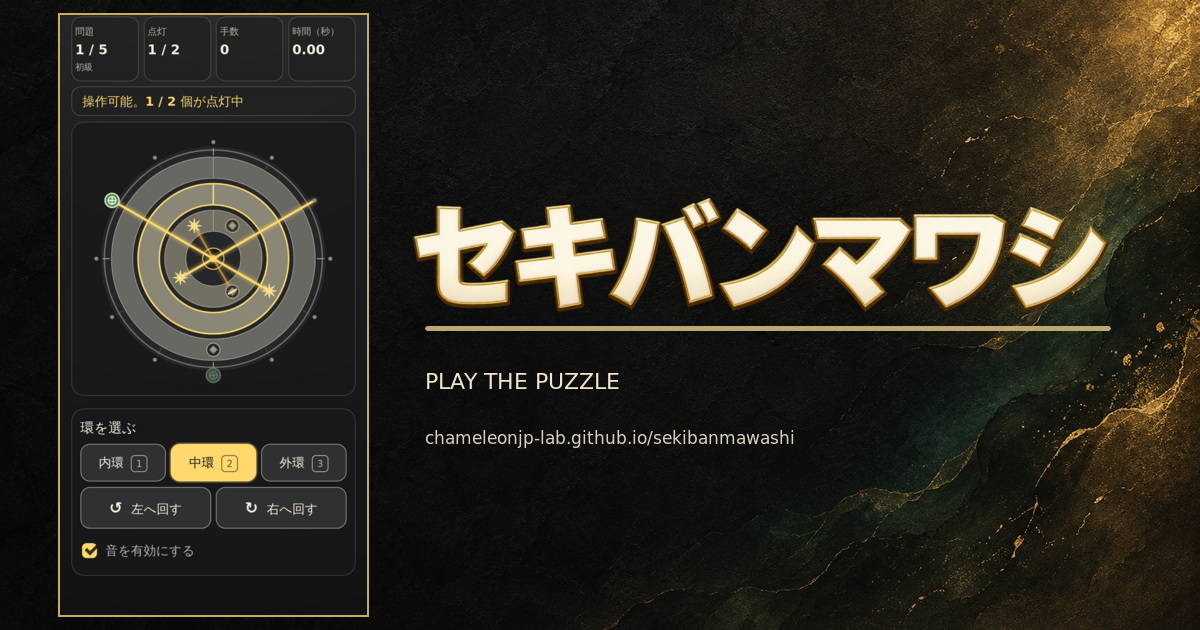
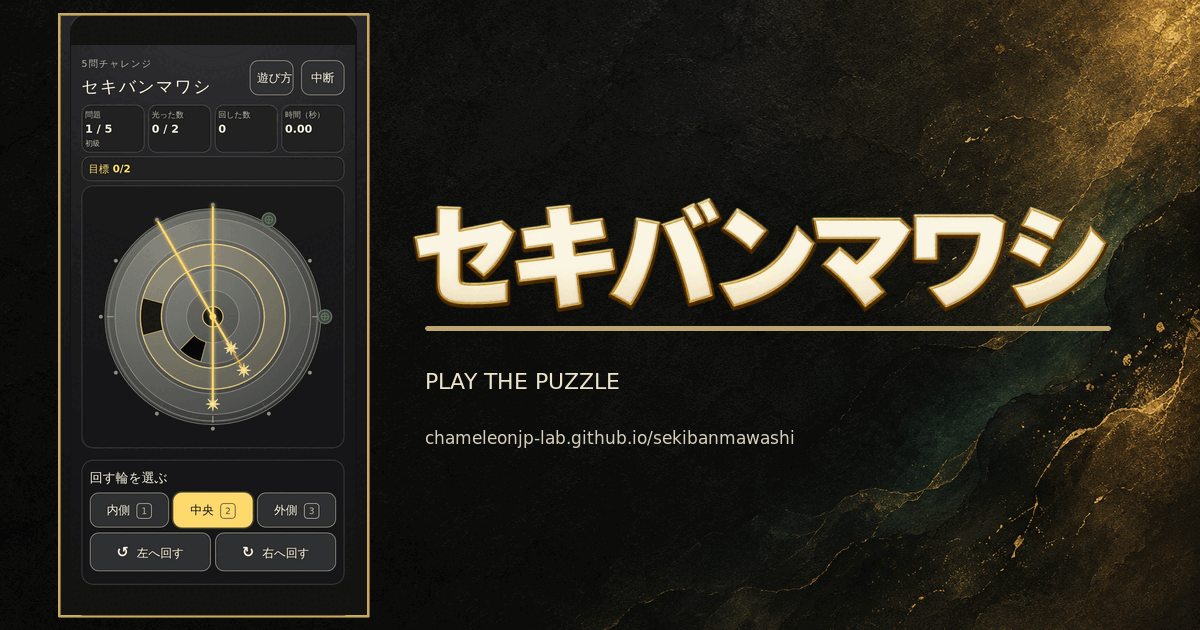
Refresh post-merge publication card and status

Changed region(s): [[0.0617, 0.0, 0.3083, 0.9349], [0.0925, 0.9651, 0.2775, 0.9952]]

diff --git a/CURRENT_STATE.md b/CURRENT_STATE.md
@@ -1,28 +1,27 @@
 # 現在の状態
 
-更新日: 2026-09-28 JST / 対象: `chameleonjp-lab/sekibanmawashi`
+更新日: 2026-09-29 JST / 対象: `chameleonjp-lab/sekibanmawashi`
 
 ## 結論
 
-最新の実装基準は[対応実装計画書 文書版2.1](docs/planning/IMPLEMENTATION_PLAN.md)です。**発光紋が常時発光し、回転だけで解く規則です。R1はPR #6、R2はPR #7、R3（1問の盤面と入力）は[PR #8](https://github.com/chameleonjp-lab/sekibanmawashi/pull/8)、R4（5問進行・時計・保存・結果・共有）は[PR #9](https://github.com/chameleonjp-lab/sekibanmawashi/pull/9)でマージ済みです。R5は[PR #10](https://github.com/chameleonjp-lab/sekibanmawashi/pull/10)として2026-09-27 01:49:54 JSTにユーザーによりmainへマージ済みです。検証ソース `1cf19149de75b1f970185ec903b6eed7c5896fad` の[CI 36252821838](https://github.com/chameleonjp-lab/sekibanmawashi/actions/runs/36252821838)は成功し、browser 90件（89 expected + 1 flaky。初回失敗後に再試行成功）、最終失敗0・skip0でした。flakyの原因は未確定です。R6開始基準はPR #11 merge commit `dab3b9133d3b6ef5f4c88c433719192d64e413cd` / tree `6ff4ca684103cd0eb5265b62e89fb071f6b94784` です。[PR #12](https://github.com/chameleonjp-lab/sekibanmawashi/pull/12) は2026-09-27にmainへマージされ、merge commit `989784641d7cc04b6ae63c878b53e6acd1c39777` のpush [CI 36335601110](https://github.com/chameleonjp-lab/sekibanmawashi/actions/runs/36335601110) が成功しました。ユーザーは本番公開を許可し、正式名を「セキバンマワシ」と指定しました。[PR #13](https://github.com/chameleonjp-lab/sekibanmawashi/pull/13) はmainへマージ済みで、merge commitは `662d0fe79cce888094eb265a71c3f56cc60ff331` です。PR head `bc06184ead790ee80ffea31742589396d29f4693` のCI 36347915124は成功済みです。公開workflowはmain merge SHAそのもののpush `CI / verify` 成功を要求するため、dispatch前に `662d0fe79cce888094eb265a71c3f56cc60ff331` のpush CIを別途確認します。Q05実機受入は未実施のため、workflow dispatch・実deployは未実施です。**
+最新の実装基準は[対応実装計画書 文書版2.1](docs/planning/IMPLEMENTATION_PLAN.md)です。発光紋は常に光り、輪を回して解く規則です。R1〜R5とR6公開workflow・正式名の設定は完了しています。
 
-## 画面仕上げ作業（Draft PR #17）
+ユーザー依頼の画面仕上げは[PR #17](https://github.com/chameleonjp-lab/sekibanmawashi/pull/17)で実装され、2026-09-29にmainへマージ済みです。merge commitは f069923c249c20b1c553296c8af0f96d3035f8f6。PR headの[CI 36484289084](https://github.com/chameleonjp-lab/sekibanmawashi/actions/runs/36484289084)は成功しました。main push [CI 36507252037](https://github.com/chameleonjp-lab/sekibanmawashi/actions/runs/36507252037)の最終状態は公開前に再確認します。変更は石板の質感・大きさ、黒い遮光区画、画面揺れ防止、ゲーム画面の音設定削除、分かりやすい表示、成功時の紙吹雪と完成盤面1.5秒表示です。ゲーム規則・問題データは変更していません。
 
-現在の依頼に合わせ、盤面の石らしい模様と大きさ、黒い遮光場所、操作中の上下揺れ防止、ゲーム画面の音設定削除、短い日本語表示、成功時の紙吹雪と完成盤面1.5秒表示を作業中です。作業ブランチ `fix/gameplay-board-clarity` の[Draft PR #17](https://github.com/chameleonjp-lab/sekibanmawashi/pull/17)は、最新main `b717de9a46e06b18b33c6b1af0ab796adb4bb867` を基準にしています。ユニット74件、型検査、lint、buildは成功。Playwrightブラウザは実行環境の権限不足と0 MiBダウンロードで取得できず、PR CI確認は未完了です。iPhone実機も未確認です。
+R6の本番公開はまだ完了していません。最後に成功したPages公開run [36450381814](https://github.com/chameleonjp-lab/sekibanmawashi/actions/runs/36450381814)は旧main b717de9a46e06b18b33c6b1af0ab796adb4bb867 の内容です。最新画面に合わない共有画像を先に更新するため、Draft PR #18で public/share-card.png と公開記録を整えます。PR #18をユーザーがマージした後、merge後mainそのもののpush CI成功を確認してからPagesを公開し、HTTP検査と計画8.2の実URLフローを確認します。こちらではマージしません。
 
-R5開始時の基準mainは `0709e7ff2faaaf8b5e28e4038e60ca1872e118a5`（GitHub PR #9マージ後）です。今回の記録更新PRの基準mainはPR #10マージ後の `69ba9e1f34afa9bd5cbdf6950e77e6750132f648`（tree `451b800a2ab1b536680cc49fb667faa0ca87a1c6`）です。正式版はルート直下の `src/` と `content/` に分け、`prototype/` は旧規則の比較資料として残します。
+Q05（iPhone 17 Proの物理Safari、VoiceOver、ロック復帰、実機音）は未実施です。ユーザーの個別waiverが[PR #14の記録](https://github.com/chameleonjp-lab/sekibanmawashi/pull/14#issuecomment-5861153503)にあり、今回のR6本番公開に限って適用します。実機確認済みとは扱いません。
 
 | 項目 | 決定・状態 |
 |---|---|
-| 盤面 | 12方向、可動環3本、外周に受光紋 |
-| 新操作 | 環選択、左回転、右回転。R3で1問の盤面・入力と説明/中断確認を実装。実機は未確認 |
-| 成功 | 必須受光紋が全て点灯。余分な光は許可 |
-| 問題庫 | v2で初級30・中級30・上級30を生成。旧90問を再解析し18問再利用・72問差し替え |
-| 1回の挑戦 | 初級2・中級2・上級1の順に5問。日替わりなし |
-| 今回の実装先 | 正式版の `src/` / `content/` を基本とする。旧試作は比較資料 |
-| 今回の接続 | 端末内で完結。ランキング・プレイ回数・Supabaseは対象外 |
-| 公開 | R6のworkflow_dispatch専用公開workflowはPR #12でmainへマージ済み。正式名「セキバンマワシ」と実画面ベースの共有画像もPR #13でmainへマージ済み。公開候補SHAは `662d0fe79cce888094eb265a71c3f56cc60ff331`。同SHAのmain push CI確認に加え、Q05実機受入の個別waiverまたは完了まではdispatchしない |
-| 主対象 | iPhone 17 Pro Safari。横画面・PCも同じ規則で検査する |
+| 盤面 | 12方向、可動輪3本、外周の目標へ光を届ける |
+| 操作 | 輪を選び、左か右へ回す |
+| 成功 | 必須の目標がすべて光れば成功。余分な光は許可 |
+| 問題庫 | 初級30・中級30・上級30。1回の挑戦は初級2・中級2・上級1の5問 |
+| 接続 | 端末内で完結。ランキング・プレイ回数・Supabaseは対象外 |
+| 正式名・URL | 「セキバンマワシ」 / https://chameleonjp-lab.github.io/sekibanmawashi/ |
+| 公開 | PR #17の画面は未公開。共有画像をPR #18で更新後、ユーザーのマージと同一main SHAのpush CI成功を待つ |
+| 主対象 | iPhone Safari。横画面・PCも同じ規則で検査 |
 
 ## 完了・未完了の区別
 
@@ -36,18 +35,18 @@ R4で5問進行・時計・保存・結果・共有を追加し、[PR #9](https:
 
 ## 次の作業
 
-R3の結果・修正履歴と未確認は[R3検査記録](docs/reviews/R3_VERIFICATION.md)、R4の作業結果は[R4検査記録](docs/reviews/R4_VERIFICATION.md)、R5は[R5検査記録](docs/reviews/R5_VERIFICATION.md)で管理します。R6は[検査記録](docs/reviews/R6_VERIFICATION.md)と[公開手順](docs/PAGES_PUBLICATION.md)を参照してください。PR #12とPR #13はmainへマージ済みです。正式名と共有画像はmainへ入っています。先にDraft PR #17の画面仕上げをCIまで確認します。その後、公開候補SHA `662d0fe79cce888094eb265a71c3f56cc60ff331` のmain push CIとQ05実施または個別waiverを確認してからdispatchを検討します。
+R3〜R5の履歴は各検査記録、R6は[検査記録](docs/reviews/R6_VERIFICATION.md)と[公開手順](docs/PAGES_PUBLICATION.md)を参照します。現在はPR #17マージ後の公開準備です。共有画像を最新のCIプレイ画面へ合わせるDraft PR #18をレビュー・提出し、ユーザーがマージした後に、その時点のmain headとpush CI / verifyを確認してからPublish Pagesを実行します。
 
 旧GitHub PR #1〜#4と計画のR番号を混同しません。旧計画v1.2の「公式PR1〜6」を新計画と並行実行しません。
 
 ## 公開前に残る確認
 
-正式名はユーザー指定の「セキバンマワシ」、共有画像はmainの成功CIが撮影した実プレイ画面を使った1200×630 PNGとしてPR #13で設定し、mainへマージ済みです。公開先URLは `https://chameleonjp-lab.github.io/sekibanmawashi/` です。実験場側の掲載方式と公開先での実動作は、deploy後に確認します。
+正式名「セキバンマワシ」と公開URLは設定済みです。現行の公開ページは b717de9a46e06b18b33c6b1af0ab796adb4bb867 のビルドで、PR #17の画面はまだ配信されていません。PR #13由来の共有画像もPR #17以前の画面を示すため、Draft PR #18で更新します。
 
-iPhone 17 Pro物理Safari・VoiceOver・ロック復帰・正式アプリ全体の実機受入（Q05）は未実施です。CIやHTTP smokeを実機受入完了とはしません。ユーザーの公開許可はQ05の個別waiverではありません。サーバー抽選とランキングは延期であり、廃止・完了扱いにはしません。
+Q05は未実施ですが、ユーザーは今回のR6本番公開に限った免除をPR #14のコメントに明示しています。Pages公開後はHTTP smokeに加え、ホームから挑戦開始、5問結果、再読込、共有、実験場との往復を実URLで確認します。ランキング等のサーバー連携は延期のままで、実装・公開したとは扱いません。
 
-## 2026-09-28 ゲーム画面の改善
+## 2026-09-29 PR #17マージ後
 
-ユーザー依頼の画面改善を、main `b717de9a46e06b18b33c6b1af0ab796adb4bb867` から分岐した `fix/gameplay-board-clarity` で実装し、[Draft PR #17](https://github.com/chameleonjp-lab/sekibanmawashi/pull/17) を作成しました。石板の質感と大きさ、黒く塗る遮断区画、上下に動かない入力、ゲーム画面からの音設定削除、簡潔な状態表示・言葉、成功時の紙吹雪と1.5秒の完成盤面表示が対象です。問題規則やデータは変更していません。未マージ・未公開です。
+PR #17はmainへマージ済みです。PR headのCI 36484289084は成功し、main merge commitは f069923c249c20b1c553296c8af0f96d3035f8f6 です。main push CI 36507252037の最終状態はPublish Pages前に再確認します。iPhone実機・VoiceOverは未確認です。
 
-Node 24.19.0 / npm 11.9.0 で typecheck、lint（39 files）、licenses:check、unit74件、P01〜P09、build、Playwright 100件のtest discoveryが成功しました。ローカルChromium/WebKitは0 MiBのブラウザー配布物により未実行です。先行CI 36474442114では短画面検査を通過し、ブラウザー検査は90件成功・2件失敗でした。後続CI 36477214131は100件中70件成功・30件失敗し、説明ダイアログの閉じる文言、円環テストが円環の穴をクリックしていたこと、成功表示の文言期待が現行UIと合わないことが主因でした。現在のUI文言「問題へ戻る」「正解！」に合わせ、円環上をタップする検査に直しました。be06d892のCI 36481577892はこの修正前のheadで実行中でした。修正後headのCIで再確認します。iPhone実機・VoiceOverは未実施です。
+公開前の共有画像を最新画面に合わせるDraft PR #18を準備中です。共有画像と運用記録の独立レビュー後にPRを提出し、ユーザーによるマージまでは公開を保留します。PR #18がmainに入った後は、そのmain SHAのpush CIを確認してからR6公開へ進みます。

diff --git a/docs/PAGES_PUBLICATION.md b/docs/PAGES_PUBLICATION.md
@@ -1,8 +1,8 @@
 # GitHub Pages の公開手順（R6）
 
-ユーザーは2026-09-27に本番公開を明示的に許可し、PR #12をmainへマージしました。main `989784641d7cc04b6ae63c878b53e6acd1c39777` のpush CIは成功しました。PR #12のmergeだけではdispatchされず、**本番deploy済みではありません**。[PR #13](https://github.com/chameleonjp-lab/sekibanmawashi/pull/13) で正式名「セキバンマワシ」と共有画像を設定し、2026-09-28 JST時点でmainへマージ済みです。公開候補SHAは `662d0fe79cce888094eb265a71c3f56cc60ff331` です。今後の本番deployは、このmain SHAのpush `CI / verify` 成功を確認し、事前ゲートが全て完了するか未達ゲートごとの明示waiverが記録された後に行います。Pages Settingsはこの作業では変更しません。
+R6の本番公開は2026-09-27にユーザーから許可されています。正式名「セキバンマワシ」とPages公開workflowはmainにあります。PR #17の画面仕上げは2026-09-29にmain f069923c249c20b1c553296c8af0f96d3035f8f6 へマージ済みで、PR headのCI 36484289084は成功しました。main push CI 36507252037の最終状態と、公開前に作成するPR #18のmerge後のmain CIをそれぞれ確認します。
 
-Q05（iPhone 17 Proの物理Safari/VoiceOver等）は未実施ですが、ユーザーが2026-09-28 JSTに「Q05は今回免除して本番公開して良い」と明示し、PR #14のConversationへ今回のR6公開に限る個別waiverとして記録しました。R6の後続変更で正式名「セキバンマワシ」と実プレイ画面を使った共有画像を設定しました。公開先URLは `https://chameleonjp-lab.github.io/sekibanmawashi/` です。Q05を実施済みとは扱いません。
+R6のPages deployはまだです。最後に成功した公開run [36450381814](https://github.com/chameleonjp-lab/sekibanmawashi/actions/runs/36450381814)は旧main b717de9a46e06b18b33c6b1af0ab796adb4bb867 のビルドです。PR #17以前の画面を示す共有PNGをDraft PR #18で最新画面へ更新するまでdeployしません。Q05（iPhone 17 Pro物理Safari / VoiceOver / ロック復帰 / 実機音）は未実施ですが、ユーザーの「Q05は今回免除して本番公開して良い」という個別waiverが[PR #14のコメント](https://github.com/chameleonjp-lab/sekibanmawashi/pull/14#issuecomment-5861153503)に記録されています。このwaiverは今回のR6本番公開に限り適用し、実機受入済みとは扱いません。Pages Settingsは変更しません。
 
 画像の出所・構成と検査結果は[公開名・共有画像の追補検証](reviews/R6_PUBLICATION_ASSETS.md)に記録します。
 
@@ -44,11 +44,11 @@ deploy-pagesが完了した後、`scripts/check-pages.mjs published` が `site.c
 
 ## R6での実行と戻し方
 
-PR mergeだけではdispatchしません。dispatch前に、計画8.2の実機受入Q05、正式名・URL・共有画像、必須自動検査と独立レビューを完了します。正式名と共有画像はPR #13でmainへ反映済みです。残る事前ゲートは、公開候補SHA `662d0fe79cce888094eb265a71c3f56cc60ff331` のmain push `CI / verify` 成功確認とQ05です。Q05が未達のままなら、その項目についてユーザーの個別明示waiverが記録されている場合に限りdispatchします。2026-09-27の公開許可と「本番公開作業を実施」の指示は公開操作の許可ですが、Q05の個別waiverとは区別して記録します。
+PR mergeだけではdispatchしません。現在のmainにはPR #17が入りましたが、最新画面の共有画像をDraft PR #18で更新中です。PR #18をユーザーがマージするまで本番deployを保留し、マージ後はその時点のmain SHAと同じSHAのpush CI / verify成功を再確認します。Q05の個別waiverはPR #14に記録済みで、今回のR6公開に限って適用します。正式名・URLは設定済みです。Pages Settings、branch protection、サーバーランキング、Supabase、実験場の本番データは変更しません。
 
-これらの事前ゲートが満たされた後、rootはmainの新headと `CI / verify` を再確認し、Actionsの **Publish Pages → Run workflow** でmainを選びます。通常公開は `source_sha` を空欄のまま実行し、workflowがcurrent mainの完全SHAを確定します。ロールバック時だけ受入対象commitの完全40桁SHAを明示します。Workflowは確定したSHAがmain祖先であり、同一SHAの成功push CIがあることを再確認してからbuild/deployします。deploy直後は自動HTTP smokeを確認し、その後にトップ、挑戦開始、5問結果、再読込、共有、実験場との往復を実URLで確認してR6を完了します。Pagesの `Source: GitHub Actions` 設定が必要なら、権限を持つ人がGitHub Settingsで設定します。この実装作業ではその設定を変更していません。
+上記を確認後、Actionsの **Publish Pages → Run workflow** でmainを選び、通常公開ではsource_shaを空欄にします。workflowがdispatch時点のmain完全SHAを確定し、同じSHAがmainの祖先であり、同一SHAの成功push CIがあることを再検査します。ロールバック時だけ受入対象の完全40桁SHAを明示します。deploy直後は自動HTTP smokeを確認し、その後にトップ、挑戦開始、5問結果、再読込、共有、実験場との往復を実URLで確認してR6を完了します。Q05は未実施のまま記録し、個別waiverを超えて実機確認済みとは表現しません。
 
-公開が失敗または問題があれば、同じ手動Workflowへ直前の確認済みSHAを指定して再deployし、HTTP smokeで戻ったcommitを確認します。rollback対象SHAはR6導入前でもよく、検査scriptはdispatch workflow側のrevisionから実行します。強制push、履歴書換え、branch protection変更、ランキング/Supabase/実験場の本番データ更新はこの手順に含みません。
+公開が失敗または問題があれば、同じ手動Workflowへ直前の確認済みSHAを指定して再deployし、HTTP smokeで戻ったcommitを確認します。rollback対象SHAはR6導入前でもよく、検査scriptはdispatch workflow側のrevisionから実行します。強制push、履歴書換え、保護設定の緩和、ランキング/Supabase/実験場の本番データ更新は行いません。
 
 
 ## 2026-09-28 初回dispatch失敗と対策

diff --git a/docs/planning/IMPLEMENTATION_PROGRESS.md b/docs/planning/IMPLEMENTATION_PROGRESS.md
@@ -1,6 +1,6 @@
 # 実装と受入の進捗
 
-更新日: 2026-09-28 JST / 計画: [文書版2.1](IMPLEMENTATION_PLAN.md)
+更新日: 2026-09-29 JST / 計画: [文書版2.1](IMPLEMENTATION_PLAN.md)
 
 R5開始時の基準main: `0709e7ff2faaaf8b5e28e4038e60ca1872e118a5`（PR #9マージ後）
 R6開始時の基準main: PR #11 merge commit `dab3b9133d3b6ef5f4c88c433719192d64e413cd` / tree `6ff4ca684103cd0eb5265b62e89fb071f6b94784`
@@ -92,6 +92,10 @@ R6後続PR #13で、正式名「セキバンマワシ」をUI・共有文・HTML
 PR #13はmainへマージ済みで、現在確認できる最新main commitは `662d0fe79cce888094eb265a71c3f56cc60ff331` です。PR head `bc06184ead790ee80ffea31742589396d29f4693` のCI 36347915124は成功済みですが、公開workflowは公開候補SHA自身のmain push成功を要求するため、dispatch前に `662d0fe79cce888094eb265a71c3f56cc60ff331` の `CI / verify` を確認します。Q05は未実施で、個別waiverもまだ記録していません。したがって、本PRは公開ゲートを弱めず、状態記録のみを更新します。
 
 
-## R6後の画面仕上げ（2026-09-28）
+## R6後の画面仕上げ（2026-09-28〜29）
 
-Node `24.19.0` / npm `11.9.0` で typecheck、lint（39 files）、licenses:check、unit74件、P01〜P09、build、Playwrightのtest discovery（100件）が成功しました。ローカルのChromium/WebKit E2Eは、apt権限制約と配布元からの0 MiB zipでブラウザーを取得できず未実施です。先行headの[CI 36474442114](https://github.com/chameleonjp-lab/sekibanmawashi/actions/runs/36474442114)は短画面検査を通過し、ブラウザー検査は90件成功・2件失敗でした。後続[CI 36477214131](https://github.com/chameleonjp-lab/sekibanmawashi/actions/runs/36477214131)は100件中70件成功・30件失敗し、主な原因は説明ダイアログの旧ボタン名、I03円環テストの穴へのクリック、成功表示「正解！」と検査期待語の不一致でした。テストを現行文言「問題へ戻る」「正解！」と実際の円環位置へ合わせました。修正後headのCIで再確認します。iPhone実機・VoiceOverは未確認です。詳細は[画面仕上げ検査記録](../reviews/POST_R6_UI_REFINEMENT_2026-09-28.md)を参照してください。
+ユーザー依頼の石板表示・盤面サイズ・黒い遮光区画・画面揺れ防止・音設定の配置・分かりやすい表示・成功演出はPR #17で実装され、2026-09-29にmainへマージ済みです。merge commit f069923c249c20b1c553296c8af0f96d3035f8f6、基準mainはb717de9a46e06b18b33c6b1af0ab796adb4bb867でした。PR head CI 36484289084は成功しました。main push CI 36507252037の最終状態は公開前に再確認します。ローカルChromium/WebKitは配布元の0 MiBブラウザー取得とapt権限制約で未実施です。iPhone実機・VoiceOverも未確認です。
+
+最後に成功したPages deployはrun 36450381814で、PR #17以前のmain b717de9a46e06b18b33c6b1af0ab796adb4bb867を公開しています。共有画像 public/share-card.png にも以前の音設定と古い状態表示があるため、PR #17の成功CI WebKitスクリーンショットを使って、同画像と公開記録を更新するDraft PR #18を準備しています。画面は実際のCI画像を切り出して縮小し、盤面やUIを描き直しません。独立画像レビューでは重大な問題なし、SNS縮小時に細かい文字が読みにくい点のみ指摘されました。
+
+Q05は未実施ですが、ユーザーの個別waiverがPR #14に記録され、今回のR6公開に限り適用します。PR #18をユーザーがマージした後、そのmain SHAのpush CI成功を確認してからPages dispatchを行い、HTTP smokeと計画8.2の実URLフローを確認します。PRはマージしません。

diff --git a/docs/spec/CURRENT_GAME_SPEC.md b/docs/spec/CURRENT_GAME_SPEC.md
@@ -1,6 +1,6 @@
 # 現在のゲーム仕様
 
-文書版: 2.1 / 更新日: 2026-09-28 / 状態: **基本機能・R6公開準備済み。画面の仕上げ変更は作業中。ゲーム全体の実機受入と公開は未完了**
+文書版: 2.1 / 更新日: 2026-09-29 / 状態: **基本機能実装済み。PR #17の画面仕上げはmainへマージ済み。実機受入とR6公開は未完了**
 
 詳細と検査は[対応実装計画書](../planning/IMPLEMENTATION_PLAN.md)を使います。旧試作がこの仕様へ変更済みという意味ではありません。
 
